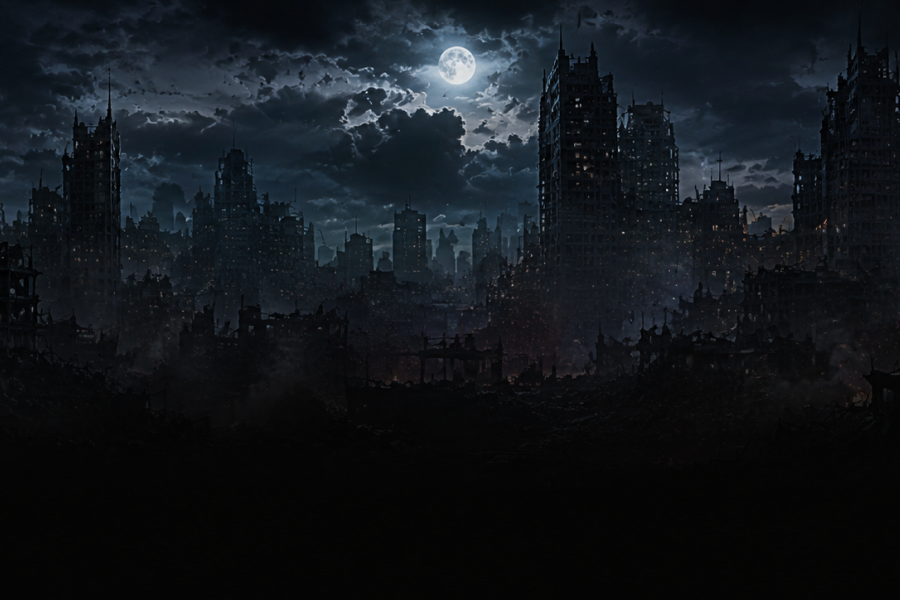
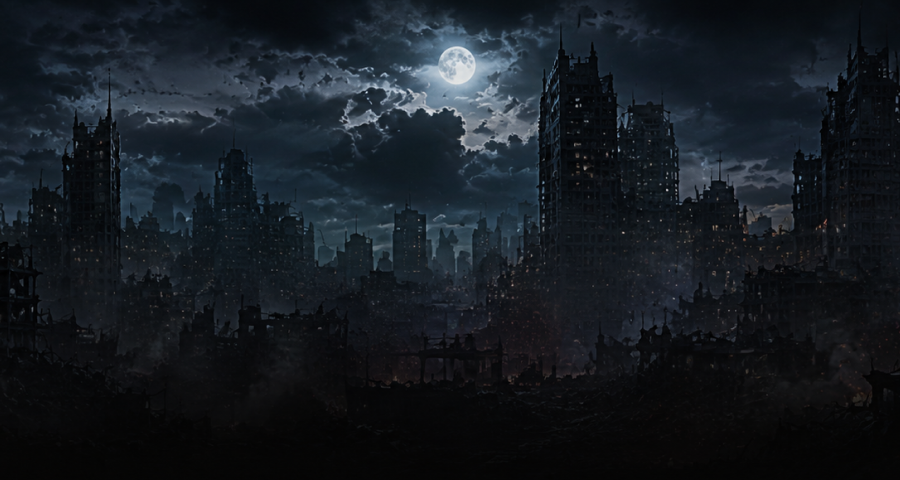
fix og metadata

diff --git a/src/App.css b/src/App.css
@@ -91,7 +91,7 @@ button {
 
 .heroTopImageWrap {
   width: 100%;
-  aspect-ratio: 2 / 1;
+  aspect-ratio: 3 / 2;
   overflow: hidden;
   position: relative;
   border-radius: 0;